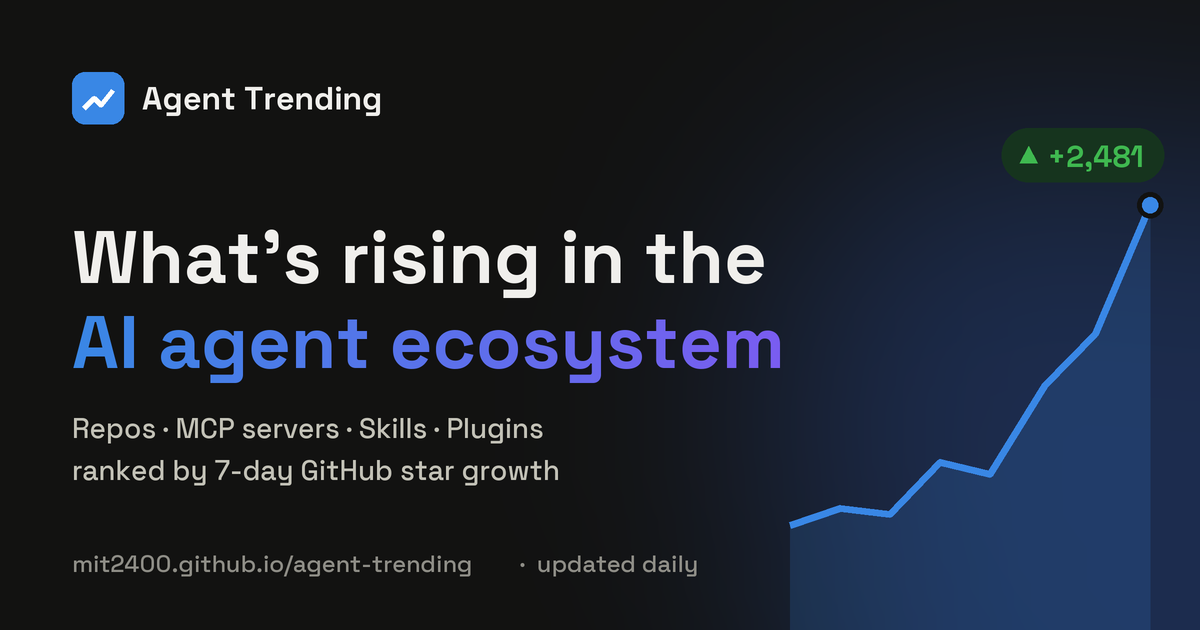
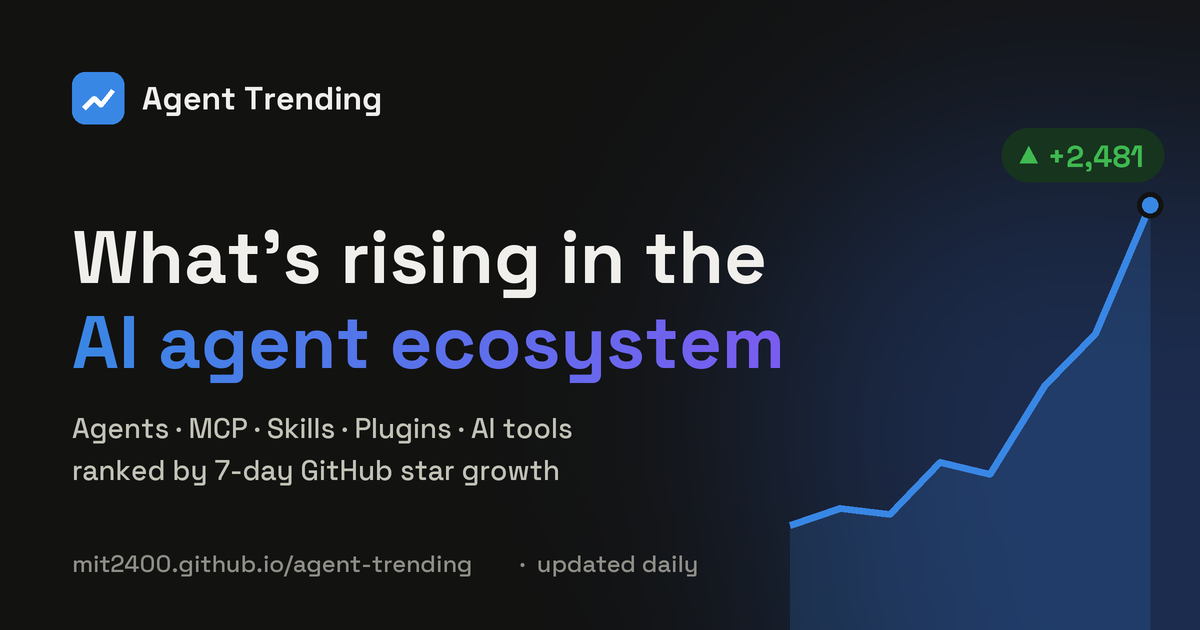
copy: tagline now covers agents, MCP servers, skills, plugins, marketplaces & AI tools

Changed region(s): [[0.0617, 0.6635, 0.4933, 0.7238]]

diff --git a/index.html b/index.html
@@ -4,7 +4,7 @@
 <meta charset="utf-8">
 <meta name="viewport" content="width=device-width, initial-scale=1">
 <title>Agent Trending</title>
-<meta name="description" content="Daily star-growth leaderboard for the AI agent ecosystem — repos, MCP servers, skills, plugins & marketplaces.">
+<meta name="description" content="Daily star-growth leaderboard for the AI agent ecosystem — agents, MCP servers, skills, plugins, marketplaces & AI tools.">
 <meta property="og:title" content="Agent Trending">
 <meta property="og:description" content="What's rising in the AI agent ecosystem, ranked by GitHub star growth. Updated daily.">
 <meta property="og:type" content="website">
@@ -43,7 +43,7 @@
   <main class="wrap">
     <section class="intro">
       <h1>What's rising in the<br><span class="hl">AI agent ecosystem</span></h1>
-      <p class="lede">Repos, MCP servers, skills, plugins &amp; marketplaces — ranked by GitHub star growth, refreshed every morning.</p>
+      <p class="lede">Agents, MCP servers, skills, plugins, marketplaces &amp; AI tools — ranked by GitHub star growth, refreshed every morning.</p>
       <p class="meta" id="meta">Loading…</p>
       <p class="notice" id="notice" hidden></p>
     </section>

diff --git a/tools/make_og.py b/tools/make_og.py
@@ -100,7 +100,7 @@ def main(font_path: str) -> None:
     d = ImageDraw.Draw(img)
 
     sub_f = font(font_path, 28, "Medium")
-    d.text((72 * s, 410 * s), "Repos · MCP servers · Skills · Plugins", font=sub_f, fill=TEXT2)
+    d.text((72 * s, 410 * s), "Agents · MCP · Skills · Plugins · AI tools", font=sub_f, fill=TEXT2)
     d.text((72 * s, 452 * s), "ranked by 7-day GitHub star growth", font=sub_f, fill=TEXT2)
 
     foot_f = font(font_path, 24, "Medium")

diff --git a/README.md b/README.md
@@ -1,12 +1,12 @@
 # Agent Trending
 
-**What's rising in the AI agent ecosystem — ranked by GitHub star growth, refreshed every morning.**
+**What's rising in the AI agent ecosystem.** Agents, MCP servers, skills, plugins, marketplaces & AI tools — ranked by GitHub star growth, refreshed every morning.
 
 [![Agent Trending](assets/og.png)](https://mit2400.github.io/agent-trending/)
 
 🔗 **Live leaderboard: https://mit2400.github.io/agent-trending/**
 
-Agent Trending tracks about a thousand established repos around AI agents (Claude Code, Codex, Cursor, Gemini CLI, MCP servers, skills, plugins, marketplaces, agent frameworks and tools) and shows which ones are gaining stars fastest right now.
+Agent Trending tracks about a thousand established repos around AI agents (Claude Code, Codex, Cursor, Gemini CLI, MCP servers, skills, plugins, marketplaces, agent frameworks and AI tools) and shows which ones are gaining stars fastest right now.
 
 - 🔥 **Top gains**: most stars gained over the last 7 days
 - 📈 **Fastest growing**: biggest growth in percent
